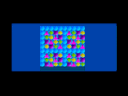
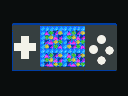
Gem generation

diff --git a/include/gem.hpp b/include/gem.hpp
@@ -1,0 +1,22 @@
+#include <cstdint>
+#include "32blit.hpp"
+
+const uint8_t SPRITE_SIZE = 24;
+const uint8_t SPRITE_COUNT = 5;
+
+// Implementation of signum (returns 1, -1, 0)
+template <typename T> int sgn(T v) {
+    return (T(0) < v) - (v < T(0));
+}
+
+struct Gem {
+    static const uint8_t NONE   = 0;
+
+    uint8_t state = Gem::NONE;
+    uint8_t sprite_index = 0;
+    blit::Point position;
+
+    Gem(uint8_t idx, blit::Point pos) : sprite_index(idx), position(pos) {};
+
+    blit::Rect next_sprite();
+};

diff --git a/src/pico3.cpp b/src/pico3.cpp
@@ -40,9 +40,9 @@ void render(uint32_t time) {
   environment->draw(&screen, Rect(0, 0, 240, 240), nullptr);
   for(uint8_t x = 0; x < 10; ++x) {
     for(uint8_t y = 0; y < 9; ++y) {
-      Rect sprite = Rect(((x * y) % 5) * 3, 0, 3, 3);
       Point position = Point(x * 24, y * 24);
-      screen.sprite(sprite, position);
+      Gem gem = Gem(blit::random() % SPRITE_COUNT, position);
+      screen.sprite(gem.next_sprite(), gem.position);
     }
   }
 }

diff --git a/src/gem.cpp b/src/gem.cpp
@@ -1,0 +1,5 @@
+#include "gem.hpp"
+
+blit::Rect Gem::next_sprite() {
+  return blit::Rect((sprite_index << 1) + sprite_index, 0, 3, 3);
+}

diff --git a/include/pico3.hpp b/include/pico3.hpp
@@ -18,6 +18,7 @@
 
 #include <cstdint>
 #include "32blit.hpp"
+#include "gem.hpp"
 
 struct SaveData {
 };
